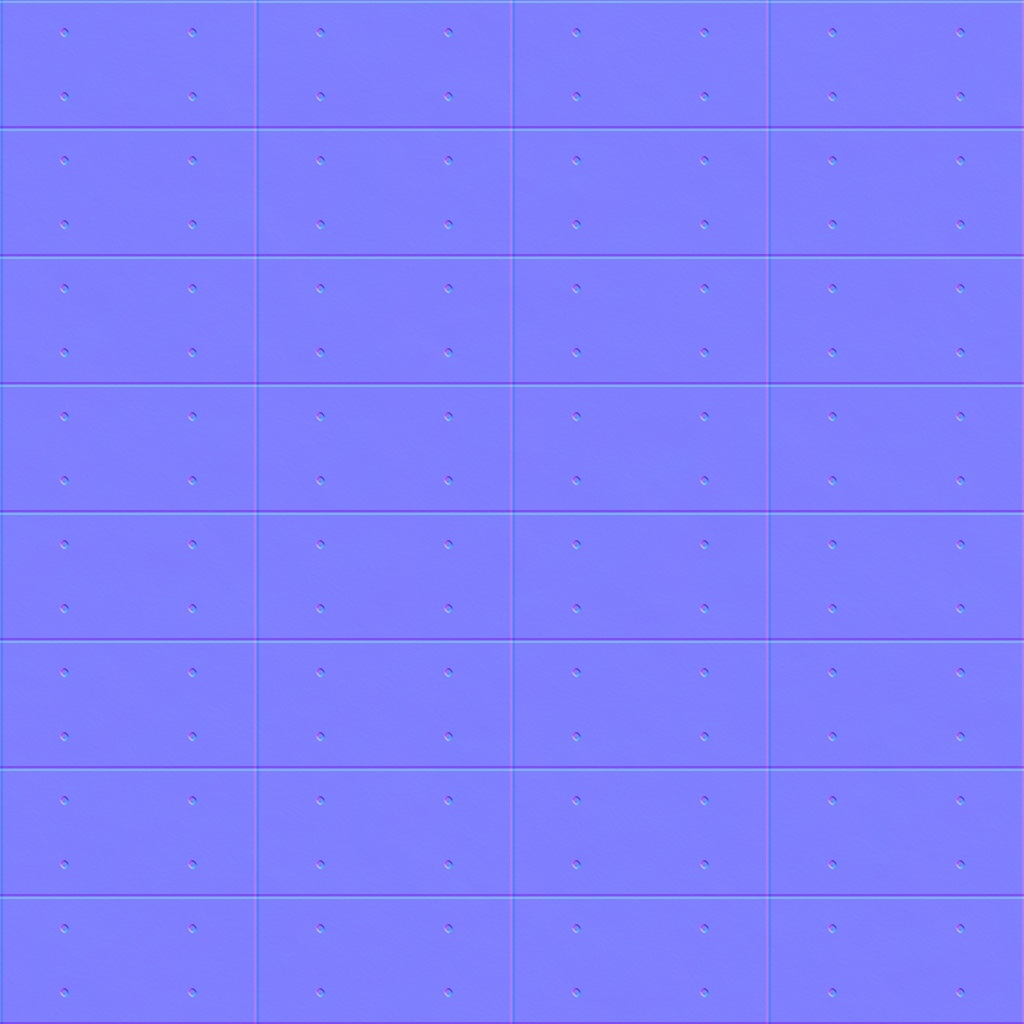
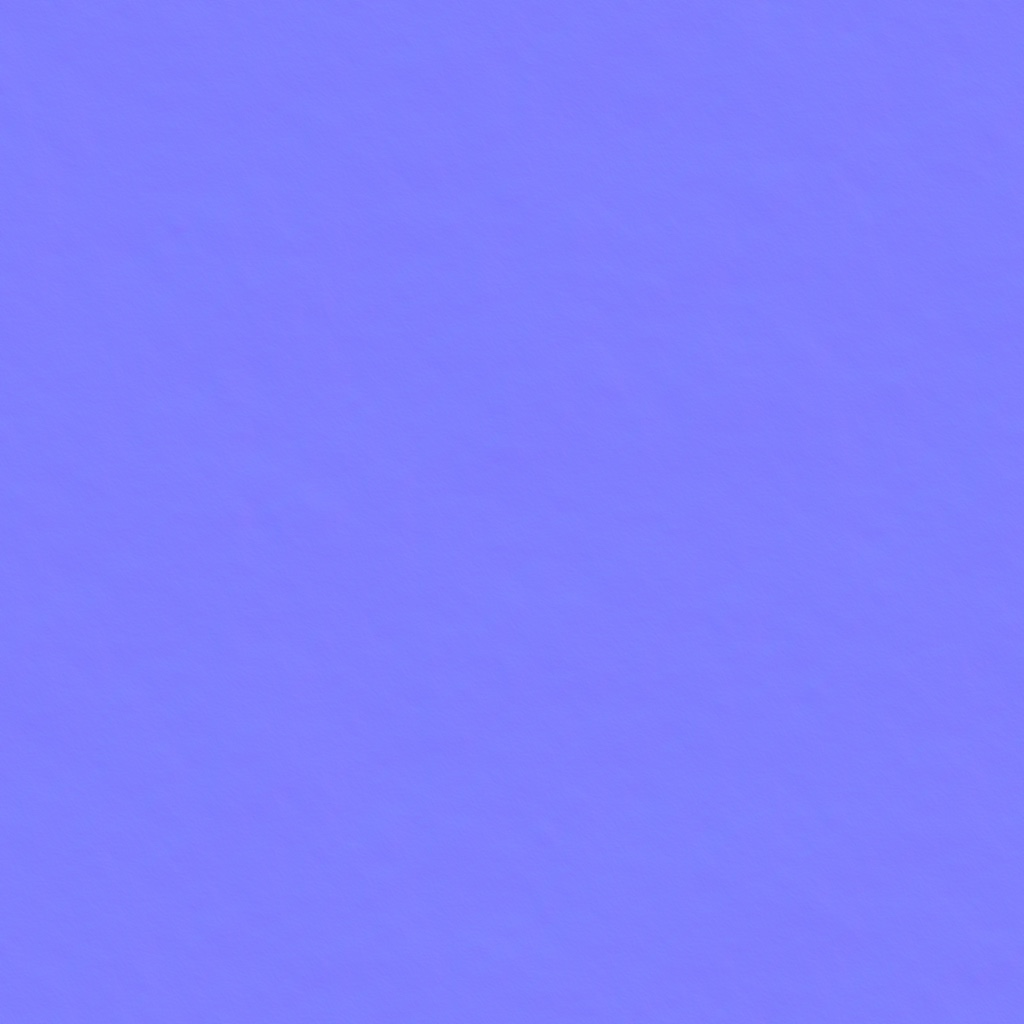
Камера с нуля: одна плавная траектория, скорость с плавным торможением у кейсов, ограничение поворота и пружина с пределом скорости; кейсы по диагонали без разворотов; бетон без плиточного повтора

diff --git a/main.js b/main.js
@@ -157,6 +157,19 @@ function litMat({ flat = false, glow = 0, side = THREE.DoubleSide, baked = null,
       }`,
     fragmentShader: /* glsl */`
       uniform sampler2D tAlb, tNrm, tStain; uniform float uBake;
+      // без повтора: текстура берётся с двумя сдвигами, выбор плавно меняется по поверхности (приём И. Кильеса)
+      vec4 noTile(sampler2D t, vec2 uv, out float sel) {
+        float l = texture2D(tStain, uv * 0.031).g * 9.0, f = fract(l), ia = floor(l), ib = ia + 1.0;
+        vec2 oa = sin(vec2(3.0, 7.0) * ia), ob = sin(vec2(3.0, 7.0) * ib), dx = dFdx(uv), dy = dFdy(uv);
+        vec4 a = textureGrad(t, uv + oa, dx, dy), b = textureGrad(t, uv + ob, dx, dy);
+        sel = smoothstep(0.2, 0.8, f - 0.1 * dot(a.rgb - b.rgb, vec3(1.0)));
+        return mix(a, b, sel);
+      }
+      vec4 noTileN(sampler2D t, vec2 uv, float sel) {
+        float l = texture2D(tStain, uv * 0.031).g * 9.0, ia = floor(l), ib = ia + 1.0;
+        vec2 dx = dFdx(uv), dy = dFdy(uv);
+        return mix(textureGrad(t, uv + sin(vec2(3.0, 7.0) * ia), dx, dy), textureGrad(t, uv + sin(vec2(3.0, 7.0) * ib), dx, dy), sel);
+      }
       #ifdef BAKED
         uniform sampler2D tLM; uniform float uCK; varying vec2 vLM; varying float vA;
       #endif
@@ -178,8 +191,8 @@ function litMat({ flat = false, glow = 0, side = THREE.DoubleSide, baked = null,
           if (a.y > a.x && a.y > a.z) { uv = vW.xz; t1 = vec3(1., 0., 0.); t2 = vec3(0., 0., 1.); }
           else if (a.x > a.z) { uv = vW.zy; t1 = vec3(0., 0., 1.); t2 = vec3(0., 1., 0.); }
           else { uv = vW.xy; t1 = vec3(1., 0., 0.); t2 = vec3(0., 1., 0.); }
-          alb = pow(texture2D(tAlb, uv / 16.0).rgb, vec3(2.2)) * tint;
-          vec3 tn = texture2D(tNrm, uv / 16.0).xyz * 2.0 - 1.0;
+          float sel; alb = pow(noTile(tAlb, uv / 16.0, sel).rgb, vec3(2.2)) * tint;
+          vec3 tn = noTileN(tNrm, uv / 16.0, sel).xyz * 2.0 - 1.0;
           N = normalize(n * max(tn.z, 0.2) + (t1 * tn.x + t2 * tn.y) * 0.7);
           float wall = 1.0 - smoothstep(0.6, 0.9, a.y);
           float streak = texture2D(tStain, vec2(uv.x / 97.0, uv.y / 900.0)).r;                 // потёки по вертикали
@@ -262,7 +275,7 @@ const CASEPOS = [
   KX('aiLavka', 'cases/ai-lavka', 262, 34, -4030, V(-1, 0, 0), 80, 'ai-продакшн'),
   KX('aiAlfa', 'cases/ai-alfa', -92, 34, -4290, V(1, 0, 0), 80, 'ai-продакшн'),
   // фермы — спорт
-  KX('lion', 'dp/lion-2', -112, 34, -4530, V(1, 0, 0), 80, 'спорт'),
+  KX('lion', 'dp/lion-2', -112, 34, -4575, V(1, 0, 0), 80, 'спорт'),
   KX('ironstar', 'cases/gdrive-ironstar-1', 112, 34, -4660, V(-1, 0, 0), 80, 'спорт'),
   KX('gdrive', 'cases/gdrive-silk-1', -112, 34, -4790, V(1, 0, 0), 80, 'спорт'),
   KX('baltika7', 'cases/baltika7-1', 112, 34, -4920, V(-1, 0, 0), 80, 'спорт'),
@@ -659,6 +672,7 @@ function buildReel() {
 // p 0…0.17 — Искра в темноте летит к стене и встаёт в лого; дальше всё движение привязано к голове ленты.
 const P_LINE = 0.19, P_END = 0.962;
 let CAMK = [], ISK = [], SMAP = [], STOPS = [];
+const RIG = { pos: [], look: [], s0: 0, step: 4 };
 function buildTimeline() {
   const s = slot, L0 = LOGO, rc = REEL.c, sl = iskra.userData.S;
   const sAt = pt => { let best = 0, bd = 1e9; for (let x = 0; x <= S_TOTAL; x += 1) { const d = headAt(x).distanceTo(pt); if (d < bd) { bd = d; best = x; } } return best; };
@@ -668,16 +682,17 @@ function buildTimeline() {
   SMAP = [[P_LINE, 0], [0.25, sv[1]], [0.36, sv[4]], [0.42, sv[6]], [0.53, sv[7]], [0.58, sv[8]], [0.62, sv[9]]];
   // остановки у кейсов: кадр слева, подпись справа; камера на пути ленты
   STOPS = CASEPOS.map(c => {
-    const D = c.w * 1.5 + 8, cam = c.p.clone().addScaledVector(c.n, D); cam.y = c.p.y > LOW + 60 ? LOW + 40 : LOW + 36;
-    const right = V(-c.n.x, 0, -c.n.z).cross(V(0, 1, 0)).normalize();
-    return { c, cam, look: c.p.clone().addScaledVector(right, c.w * 0.3), s: sAt(V(cam.x, LOW + 0.25, cam.z)) };
+    const sp = sAt(V(c.p.x, LOW + 0.25, c.p.z).addScaledVector(c.n, Math.abs(c.n.z) > 0.5 ? 0 : 60));
+    const near = ['derbent', 'tevredens', 'izhora', 'treschnutye'].includes(c.id);
+    return { c, s: sp - (near ? 18 + c.w * 0.25 : 60 + c.w * 0.9) };   // голова ленты здесь — камера на ~60 м позади, кадр впереди по диагонали
   }).sort((a, b) => a.s - b.s);
-  const H = 0.0072, budget = (P_END - 0.62) - STOPS.length * H - 0.035;
-  let prevS = sv[9], dist = 0; STOPS.forEach(t => { dist += Math.max(0, t.s - 12 - prevS); prevS = t.s + 12; }); dist += S_TOTAL - prevS;
-  let p = 0.62; prevS = sv[9];
-  STOPS.forEach(t => { p += budget * Math.max(0, t.s - 12 - prevS) / dist; t.p0 = p; SMAP.push([p, t.s - 12]); p += H; t.p1 = p; SMAP.push([p, t.s + 12]); prevS = t.s + 12; });
-  SMAP.push([P_END, S_TOTAL]);
+  // после лестницы: скорость по пути постоянная, у каждого кейса плавно падает (гаусс) и так же плавно растёт
+  const s0 = sv[9], s1 = S_TOTAL, NS_ = Math.ceil((s1 - s0) / 2);
+  const dens = x => 1 + STOPS.reduce((a, t) => a + 6 * Math.exp(-(((x - t.s) / 30) ** 2)), 0);
+  const cum = [0]; for (let i = 1; i <= NS_; i++) cum.push(cum[i - 1] + dens(s0 + (i - 0.5) * (s1 - s0) / NS_));
+  for (let i = 1; i <= NS_; i++) SMAP.push([0.62 + (P_END - 0.62) * cum[i] / cum[NS_], s0 + i * (s1 - s0) / NS_]);
   const pOf = x => { for (let i = 0; i < SMAP.length - 1; i++) if (x <= SMAP[i + 1][1]) return SMAP[i][0] + (SMAP[i + 1][0] - SMAP[i][0]) * (x - SMAP[i][1]) / (SMAP[i + 1][1] - SMAP[i][1] || 1); return P_END; };
+  STOPS.forEach(t => { t.pS = pOf(t.s); });
   const narrow = innerWidth < 760, Y = y => LOW + y;
   const K = (x, z, pos, look) => ({ p: pOf(at(x, z)), pos, look });
   CAMK = [
@@ -698,26 +713,41 @@ function buildTimeline() {
     { p: pOf(sv[8]), pos: V(104, 34, -236), look: V(90, -120, -900) },
     { p: pOf((sv[8] + sv[9]) / 2), pos: V(112, -50, -430), look: V(80, -150, -1000) },
     { p: pOf(sv[9]), pos: V(110, -116, -575), look: V(70, -140, -1000) },
-    // дальше ключи строятся от кейсов (ниже); вентшахта — свой финальный проход
-    K(0, -5160, V(0, Y(40), -5060), V(0, Y(80), -5600)),
-    K(0, -5700, V(0, Y(42), -5600), V(0, Y(104), -6420)),          // кадр 10: строгая перспектива на вентилятор
-    { p: P_END, pos: V(0, Y(34), -6120), look: V(0, Y(112), -6420) },
-    { p: 1, pos: V(0, Y(30), -6160), look: V(0, Y(116), -6420) },   // кадр 11: вентилятор на весь кадр
   ];
-  // проезды между кейсами: за лентой, взгляд — в главное событие локации (сакура, бездна, сфера) или вперёд по пути
+  // ===== после лестницы: одна плавная траектория вместо ключей =====
+  // позиция — сглаженный путь ленты (углы скруглены), камера на 60 м позади головы и на 42 м выше пола;
+  // у кейса — мягкое притяжение к точке съёмки; взгляд — вперёд по пути, в главное событие локации, на кейс у остановки
   const hd = x => headAt(Math.min(Math.max(x, 0), S_TOTAL), V(0, 0, 0));
-  const focus = (h, ahead) => { const z = h.z;
-    if (z < -1512 && z > -1840) return V(0, LOW - 700, -1690);
-    if (z < -1840 && z > -2420) return V(0, LOW + 260, ZN.asia);
-    if (z < -3420 && z > -4440) return V(0, LOW + 430, -3930);
-    return ahead.add(V(0, 46, 0)); };
-  STOPS.forEach((t, i) => {
-    CAMK.push({ p: t.p0, pos: t.cam.clone(), look: t.look.clone() }, { p: t.p1, pos: t.cam.clone().addScaledVector(t.c.n, -5), look: t.look.clone() });
-    const prev = i ? STOPS[i - 1] : { p1: 0.62, s: sv[9] }; if (t.p0 - prev.p1 < 0.006) return;
-    const sm = (prev.s + t.s) / 2, h = hd(sm), back = hd(sm - 25).sub(h).normalize();
-    CAMK.push({ p: (prev.p1 + t.p0) / 2, pos: h.clone().addScaledVector(back, 70).add(V(0, 44, 0)), look: focus(h, hd(sm + 260)) });
-  });
-  CAMK.sort((a, b) => a.p - b.p);
+  const smoothPath = (x, win) => { const a = V(0, 0, 0); for (let k = -6; k <= 6; k++) a.add(hd(x + k * win / 6)); return a.multiplyScalar(1 / 13); };
+  const bump = (z, z0, z1, e = 120) => clamp01((z0 - z) / e) * clamp01((z - z1) / e);
+  const STEP = 4, n = Math.ceil((s1 - s0) / STEP) + 1, P = [], Lk = [];
+  const introEnd = V(110, -116, -575), introLook = V(70, -140, -1000);
+  for (let i = 0; i < n; i++) {
+    const x = s0 + i * STEP, h = hd(x), pos = smoothPath(x - 60, 90).add(V(0, 42, 0)), ahead = smoothPath(x + 170, 110).add(V(0, 34, 0));
+    pos.y = Math.max(pos.y, LOW + 36);
+    let look = ahead.clone();
+    const z = h.z;
+    look.lerp(V(0, LOW - 600, -1690), 0.55 * bump(z, -1500, -1850, 90));            // колодец: вниз в бездну
+    look.lerp(V(0, LOW + 230, ZN.asia), 0.6 * bump(z, -1840, -2420, 110));          // сакура
+    look.lerp(V(0, LOW + 420, -3930), 0.55 * bump(z, -3420, -4440, 140));           // сфера
+    look.lerp(V(0, VENT.cy + 10, ZN.fan), bump(z, -5150, -9000, 160));              // вентилятор
+    let wl = 0, cl = null;
+    STOPS.forEach(t => { const b = Math.exp(-(((x - t.s) / 52) ** 2)); if (b > wl) { wl = b; cl = t; } });
+    if (cl) { const c = cl.c, vd = c.p.clone().sub(pos).normalize(), right = vd.clone().cross(V(0, 1, 0)).normalize(); look.lerp(c.p.clone().addScaledVector(right, c.w * 0.28), Math.min(1, smooth(wl) * 1.15)); }
+    const wi = smooth(clamp01((x - s0) / 160)); pos.lerp(introEnd, 1 - wi); look.lerp(introLook, 1 - wi);
+    P.push(pos); Lk.push(look);
+  }
+  const relax = (A, r) => A.map((_, i) => { const a = V(0, 0, 0); let c = 0; for (let k = -r; k <= r; k++) { const j = Math.min(n - 1, Math.max(0, i + k)); a.add(A[j]); c++; } return a.multiplyScalar(1 / c); });
+  const Ps = relax(relax(P, 8), 8);
+  // взгляд как направление; скорость поворота ≤ 1,6° на 4 м пути — проход вперёд и назад, затем среднее (поворот начинается заранее)
+  const dirs = Lk.map((l, i) => l.clone().sub(Ps[i]).normalize()), MAXA = THREE.MathUtils.degToRad(3.2);
+  const limit = (arr, from, to, st) => { const out = arr.map(d => d.clone()); for (let i = from + st; i !== to; i += st) { const a = out[i - st], b = out[i], ang = a.angleTo(b); if (ang > MAXA) out[i] = a.clone().lerp(b, MAXA / ang).normalize(); } return out; };
+  const fw = limit(dirs, 0, n, 1), bw = limit(dirs, n - 1, -1, -1);
+  const D2 = relax(fw.map((d, i) => d.clone().add(bw[i]).normalize()), 3).map(d => d.normalize());
+  RIG.pos = Ps; RIG.look = Ps.map((p, i) => p.clone().addScaledVector(D2[i], 220)); RIG.s0 = s0; RIG.step = STEP;
+  // финальный кадр 11: камера подходит к вентилятору, пока он раскручивается
+  RIG.finPos = V(0, LOW + 30, -6160); RIG.finLook = V(0, LOW + 116, ZN.fan);
+  CAMK.sort((a, b) => a.p - b.p);  CAMK.sort((a, b) => a.p - b.p);
   CAMK.pos = new THREE.CatmullRomCurve3(CAMK.map(k => k.pos), false, 'centripetal');
   CAMK.look = new THREE.CatmullRomCurve3(CAMK.map(k => k.look), false, 'centripetal');
   const hero = narrow ? 1.6 : 2.4;
@@ -730,7 +760,9 @@ function buildTimeline() {
     { p: 1.00, pos: s.clone(), sc: sl, spin: 4 * Math.PI },
   ];
 }
-const sOfP = p => { if (p <= SMAP[0][0]) return 0; for (let i = 0; i < SMAP.length - 1; i++) if (p <= SMAP[i + 1][0]) return SMAP[i][1] + (SMAP[i + 1][1] - SMAP[i][1]) * (p - SMAP[i][0]) / (SMAP[i + 1][0] - SMAP[i][0]); return S_TOTAL; };
+const sOfP = p => { if (p <= SMAP[0][0]) return 0; if (p >= SMAP[SMAP.length - 1][0]) return S_TOTAL;
+  let lo = 0, hi = SMAP.length - 1; while (hi - lo > 1) { const m = (lo + hi) >> 1; if (SMAP[m][0] < p) lo = m; else hi = m; }
+  return SMAP[lo][1] + (SMAP[hi][1] - SMAP[lo][1]) * (p - SMAP[lo][0]) / (SMAP[hi][0] - SMAP[lo][0] || 1); };
 
 // ---------- цикл ----------
 const ovs = [...document.querySelectorAll('.ov')].map(el => ({ el, a: +el.dataset.a, b: +el.dataset.b }));
@@ -760,16 +792,31 @@ function updateRays() {
   rays.uniforms.uK.value = k;
 }
 const zoneAt = z => { let i = 0; while (i < ZONES.length - 2 && z < ZONES[i + 1].z) i++; const a = ZONES[i], b = ZONES[i + 1], t = smooth(clamp01((a.z - z) / (a.z - b.z))); const mix = (u, v) => u.map((x, k) => x + (v[k] - x) * t); return { haze: mix(a.haze, b.haze), k: a.k + (b.k - a.k) * t, amb: mix(a.amb, b.amb) }; };
-const RAW_A = 0.25;   // доля скролла на интро (до низа лестницы) — дальше скролл отдан кейсам
+const camT = V(0, 0, 0), rigPos = V(0, 0, 0), rigQ = new THREE.Quaternion(), _qT = new THREE.Quaternion(), _qS = new THREE.Quaternion(), _m4 = new THREE.Matrix4(), _up = V(0, 1, 0);
+let snapCam = true;
+// цель камеры: интро — по ключам; дальше — по таблице траектории (по длине ленты)
+function camTarget(q) {
+  if (q < 0.62) {
+    const k = CAMK; let i = 0; while (i < k.length - 2 && q > k[i + 1].p) i++;
+    const u = (i + clamp01((q - k[i].p) / (k[i + 1].p - k[i].p))) / (k.length - 1);
+    k.pos.getPoint(Math.min(u, 1), camT); k.look.getPoint(Math.min(u, 1), look);
+  } else {
+    const f = (sOfP(q) - RIG.s0) / RIG.step, i0 = Math.max(0, Math.min(RIG.pos.length - 2, Math.floor(f))), w = clamp01(f - i0);
+    camT.lerpVectors(RIG.pos[i0], RIG.pos[i0 + 1], w); look.lerpVectors(RIG.look[i0], RIG.look[i0 + 1], w);
+    if (q > P_END) { const e = smooth(clamp01((q - P_END) / (1 - P_END))); camT.lerp(RIG.finPos, e); look.lerp(RIG.finLook, e); }
+  }
+}
+const RAW_A = 0.18;   // доля скролла на интро (до низа лестницы) — дальше скролл отдан кейсам
 const toP = r => r < RAW_A ? r * 0.62 / RAW_A : 0.62 + (r - RAW_A) * 0.38 / (1 - RAW_A);
 const toRaw = p => p < 0.62 ? p * RAW_A / 0.62 : RAW_A + (p - 0.62) * (1 - RAW_A) / 0.38;
 const capEl = document.getElementById('case');
 let capId = null;
 function caption(p) {
-  const t = STOPS.find(t => p > t.p0 - 0.003 && p < t.p1 + 0.002);
+  const sc = sOfP(p), t = p >= 0.62 ? STOPS.find(t => Math.abs(sc - t.s) < 20) : null;
   if (!t) { capEl.classList.remove('on'); capId = null; return; }
   if (capId !== t.c.id) { capId = t.c.id; const c = CASES[t.c.id] || {}, ps = c.pass || {};
     capEl.innerHTML = `<span class="t">{${String(STOPS.indexOf(t) + 1).padStart(2, '0')}} ${t.c.loc}</span><h2>${c.title || ''}</h2><p class="m">${[ps.клиент, ps.год].filter(x => x && x !== '—').join(' · ')}</p><p>${c.idea || c.task || ''}</p>`; }
+  _sp.copy(t.c.p).project(camera); capEl.classList.toggle('left', _sp.x > 0.05);   // подпись — на стороне, противоположной кадру
   capEl.classList.add('on');
 }
 function frame() {
@@ -777,11 +824,14 @@ function frame() {
   const max = document.documentElement.scrollHeight - innerHeight, p = toP(max > 0 ? clamp01(scrollY / max) : 0);
   pSm += (p - pSm) * (1 - Math.exp(-dt * 2.6));
   U.uT.value = time;
-  const k = CAMK; let i = 0; while (i < k.length - 2 && pSm > k[i + 1].p) i++;
-  const u = (i + clamp01((pSm - k[i].p) / (k[i + 1].p - k[i].p))) / (k.length - 1);
-  k.pos.getPoint(u, camera.position); k.look.getPoint(u, look);
-  mouseSm.lerp(mouse, Math.min(1, dt * 3)); camera.position.x += mouseSm.x * 3; camera.position.y -= mouseSm.y * 2;
-  camera.lookAt(look);
+  camTarget(pSm);
+  // риг: пружина с пределом скорости 160 м/с и пределом поворота 40°/с — без рывков даже при резком скролле
+  if (snapCam) { rigPos.copy(camT); }
+  else { const d = camT.clone().sub(rigPos), stepV = d.multiplyScalar(1 - Math.exp(-dt * 3.0)), mx = 160 * dt; if (stepV.length() > mx) stepV.setLength(mx); rigPos.add(stepV); }
+  _m4.lookAt(rigPos, look, _up); _qT.setFromRotationMatrix(_m4);
+  if (snapCam) rigQ.copy(_qT); else { _qS.copy(rigQ).slerp(_qT, 1 - Math.exp(-dt * 2.4)); rigQ.rotateTowards(_qS, THREE.MathUtils.degToRad(40) * dt); }
+  snapCam = false;
+  mouseSm.lerp(mouse, Math.min(1, dt * 2)); camera.position.copy(rigPos).add(V(mouseSm.x * 2.5, -mouseSm.y * 1.5, 0)); camera.quaternion.copy(rigQ);
   // Искра
   let j = 0; while (j < ISK.length - 2 && pSm > ISK[j + 1].p) j++;
   const a = ISK[j], b = ISK[j + 1], t = smooth(clamp01((pSm - a.p) / (b.p - a.p)));
@@ -877,7 +927,7 @@ await buildLogo();
 buildWorld(slot); buildLight(); buildNeon(); buildReel(); buildWetFloor(); buildTimeline();
 if (!new URLSearchParams(location.search).has('live')) await loadBaked();
 renderer.compile(scene, camera);
-window.__mega = { cam: camera, composer, bloom, fanMesh: FX.fan.bi, LAMPS, SHAFTS, glows: FX.glows, U, go: p => { scrollTo(0, toRaw(p) * (document.documentElement.scrollHeight - innerHeight)); pSm = p; }, STOPS: () => STOPS.map(t => [t.c.id, +t.p0.toFixed(4)]), renderer, scene };
+window.__mega = { cam: camera, composer, bloom, fanMesh: FX.fan.bi, LAMPS, SHAFTS, glows: FX.glows, U, rigAt: q => { camTarget(q); return [camT.toArray(), look.toArray()]; }, go: p => { scrollTo(0, toRaw(p) * (document.documentElement.scrollHeight - innerHeight)); pSm = p; snapCam = true; }, STOPS: () => STOPS.map(t => [t.c.id, +t.pS.toFixed(4)]), renderer, scene };
 const AT = new URLSearchParams(location.search).get('p'); if (AT) window.__mega.go(+AT);
 frame();
 await new Promise(res => { const t0 = performance.now(); let calm = 0; const tick = () => { calm = LOAD.total === LOAD.loaded ? calm + 1 : 0; if (calm > 3 || performance.now() - t0 > 30000) return res(); setTimeout(tick, 150); }; tick(); });

diff --git a/index.html b/index.html
@@ -15,7 +15,7 @@ html,body{background:var(--bg);color:var(--cream)}
 html.lock,html.lock body{overflow:hidden}
 body{font:400 17px/1.45 "TT",system-ui,sans-serif;font-variation-settings:"opsz" 36,"wdth" 100;overflow-x:hidden}
 canvas#gl{position:fixed;inset:0;width:100vw;height:100vh;display:block;z-index:0}
-#scroll{height:3600vh;position:relative;z-index:-1}
+#scroll{height:5200vh;position:relative;z-index:-1}
 .t{font-family:"AP",monospace;font-size:13px;letter-spacing:.04em}
 header{position:fixed;top:0;left:0;right:0;z-index:5;display:flex;align-items:center;justify-content:space-between;padding:22px 28px}
 header img{height:22px}
@@ -28,7 +28,7 @@ header a.cta{border:1px solid var(--red);padding:8px 16px;border-radius:40px}
 .ov p{margin-top:14px;font-size:18px;max-width:34ch}
 .ov .t{color:var(--red)}
 .c{left:50%;top:50%;transform:translate(-50%,-50%);text-align:center;max-width:none;transition:opacity 1.6s}.c h1{font-size:clamp(48px,6.4vw,112px);color:#140606;mix-blend-mode:multiply}.c .t{display:block;margin-bottom:16px}
-#case{position:fixed;right:28px;bottom:12vh;z-index:4;max-width:420px;opacity:0;transform:translateY(12px);transition:opacity .5s,transform .5s;pointer-events:none}#case.on{opacity:1;transform:none}#case h2{font-weight:520;font-size:clamp(34px,3.4vw,56px);line-height:.95;margin-top:8px}#case .t{color:var(--red)}#case .m{margin-top:10px;color:var(--mute);font-family:"AP",monospace;font-size:13px}#case p{margin-top:10px;font-size:16px}
+#case{position:fixed;right:28px;bottom:12vh;z-index:4;max-width:420px;opacity:0;transform:translateY(12px);transition:opacity .5s,transform .5s;pointer-events:none}#case.on{opacity:1;transform:none}#case.left{right:auto;left:28px}#case h2{font-weight:520;font-size:clamp(34px,3.4vw,56px);line-height:.95;margin-top:8px}#case .t{color:var(--red)}#case .m{margin-top:10px;color:var(--mute);font-family:"AP",monospace;font-size:13px}#case p{margin-top:10px;font-size:16px}
 .l{left:28px;bottom:12vh}.r{right:28px;bottom:12vh;text-align:right}.r p{margin-left:auto}
 #pct{position:fixed;right:28px;bottom:22px;z-index:5;color:var(--mute)}
 #loader{position:fixed;inset:0;z-index:10;background:var(--bg);display:flex;align-items:center;justify-content:center;transition:opacity 1.4s ease-out}
